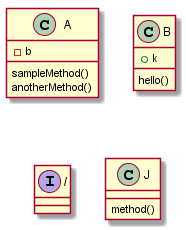
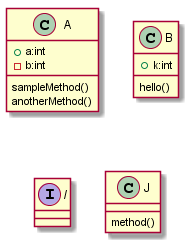
multiple field names with visibility displayed on the class diagram

diff --git a/PersonalProject/Outputs/output.java b/PersonalProject/Outputs/output.java
@@ -1,11 +1,12 @@
 @startuml
 class A{
--b
++a:int
+-b:int
 sampleMethod()
 anotherMethod()
 }
 class B{
-+k
++k:int
 hello()
 }
 interface I{
